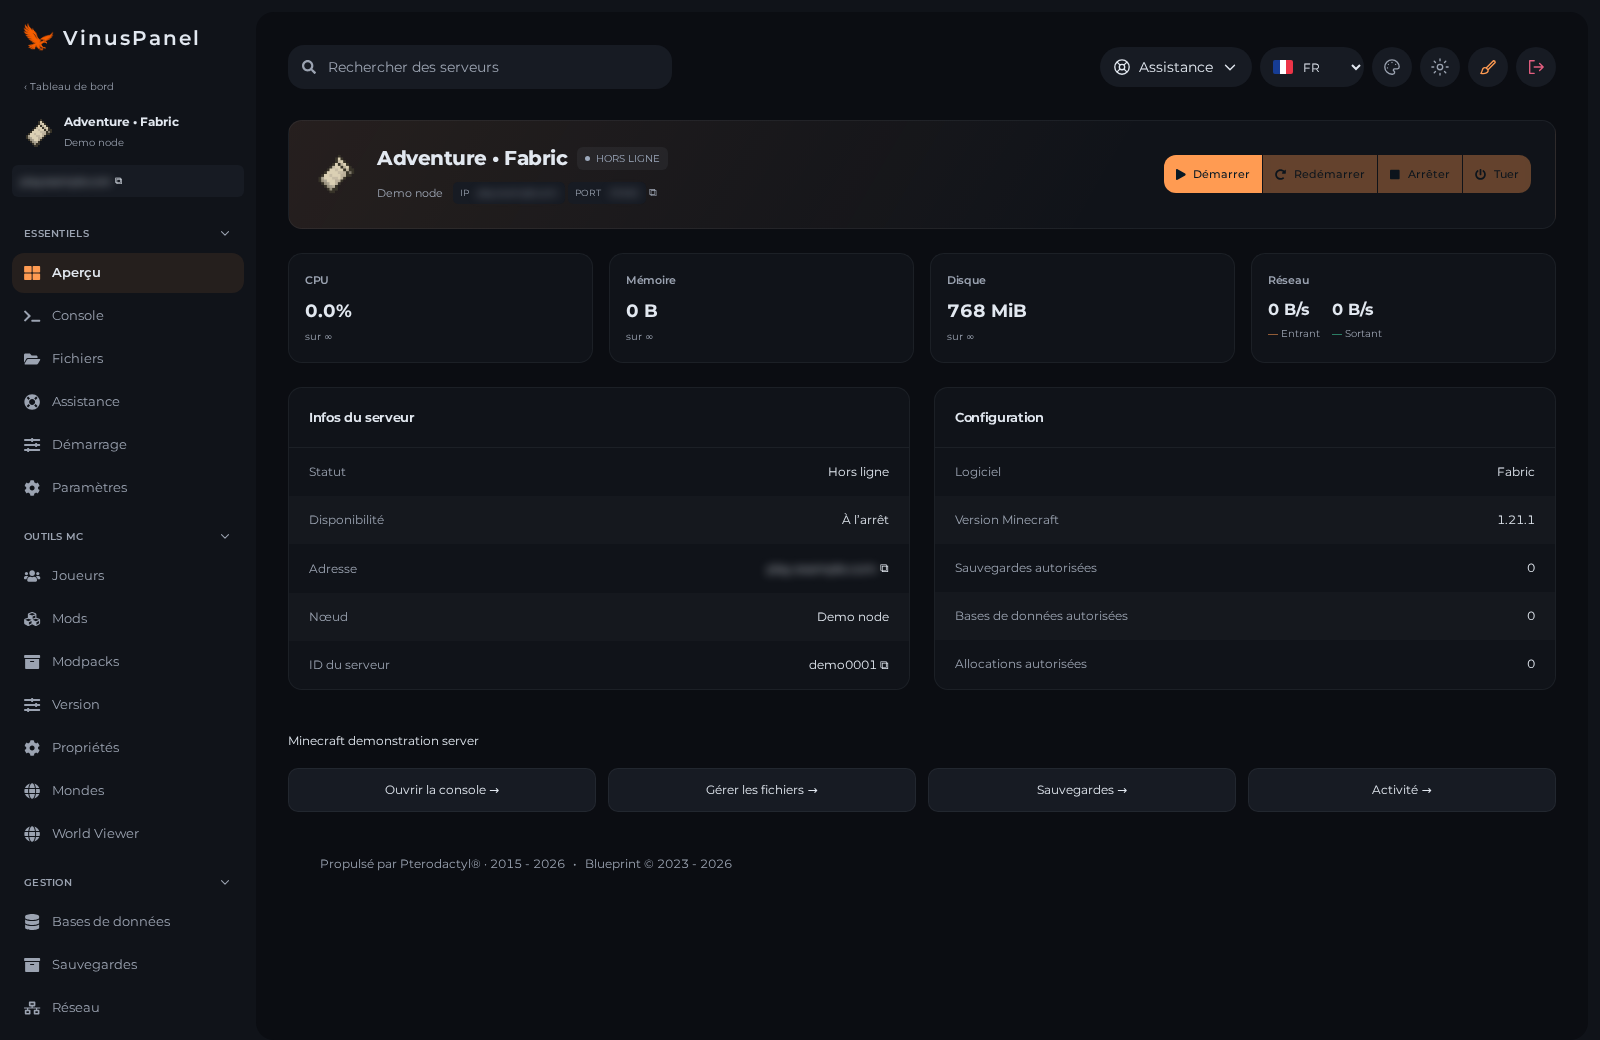
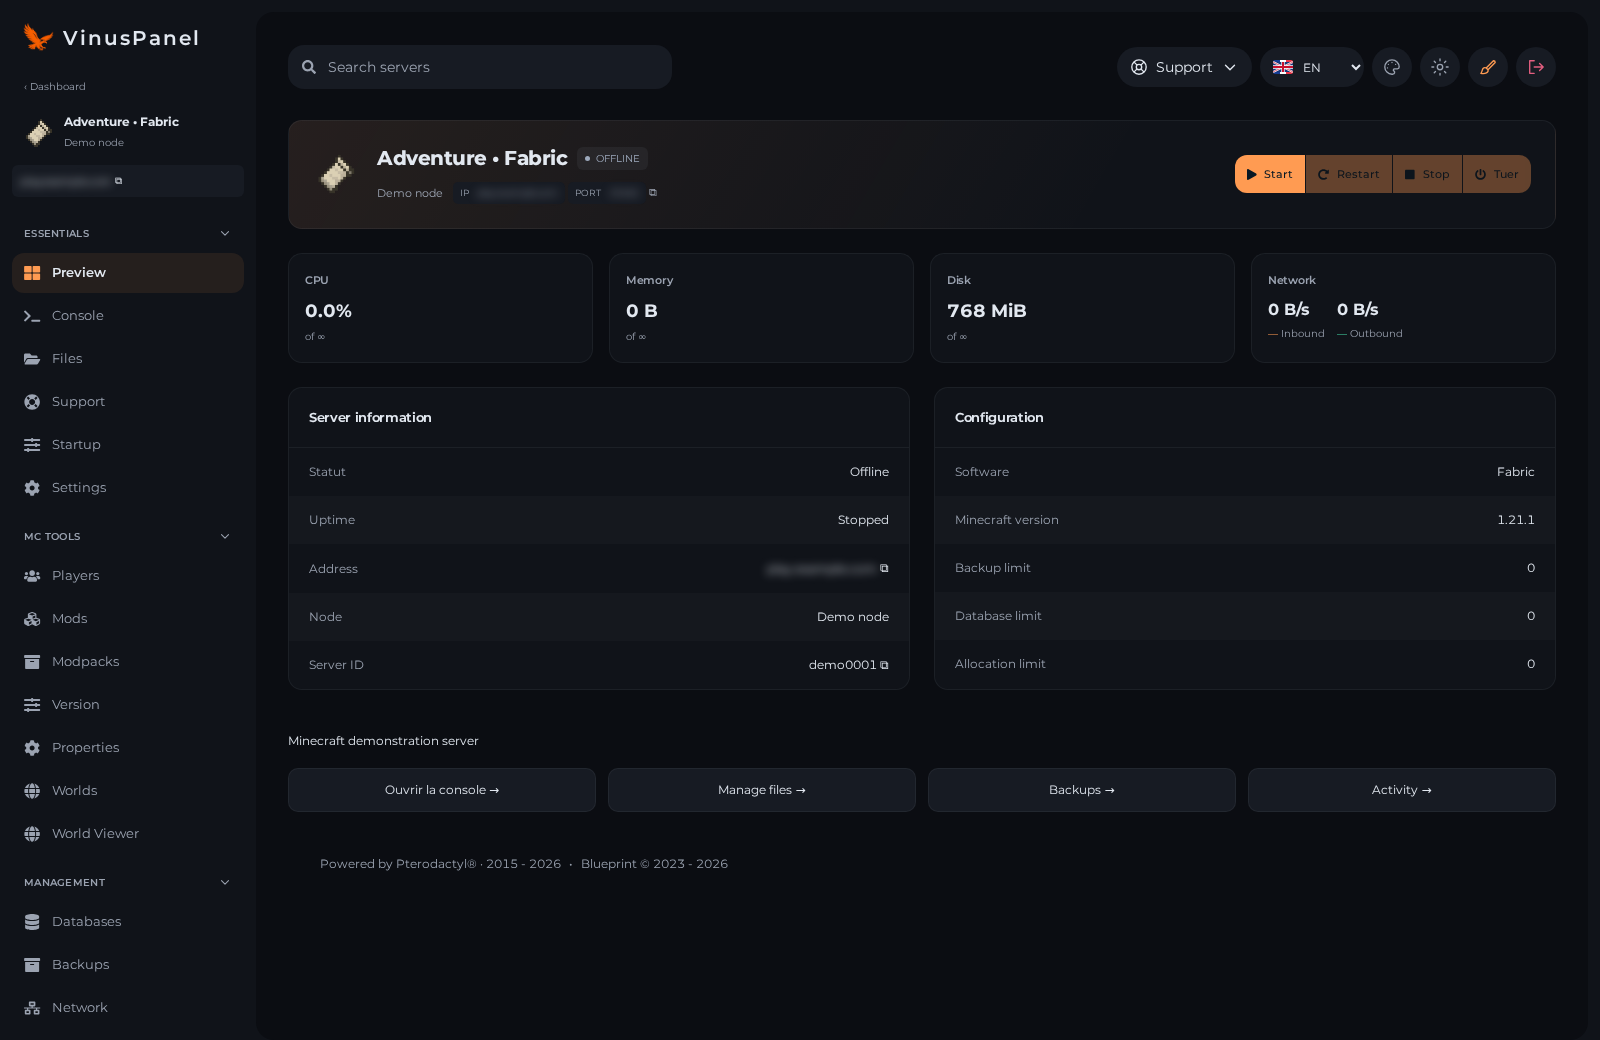
Publish English Higgsfield cover and gallery

diff --git a/docs/assets/README.md b/docs/assets/README.md
@@ -1,6 +1,6 @@
 # Public presentation assets
 
-Version 3.2.0. The gallery is rendered from the actual theme markup in `../previews`, with demonstration account and server data. No live account credentials, private node details, server identifiers or personal URLs are included.
+Version 3.2.0, English gallery. The gallery is rendered from the actual theme markup in `../previews`, with demonstration account and server data. No live account credentials, private node details, server identifiers or personal URLs are included.
 
 The cover and slides were composed with the Higgsfield media sandbox using real UI renders, flat backgrounds and typography. No invented AI-rendered interface is presented as a product screenshot. The console is shown offline; map and game logs are not fabricated.
 
